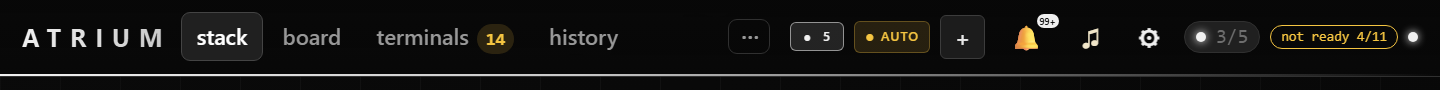
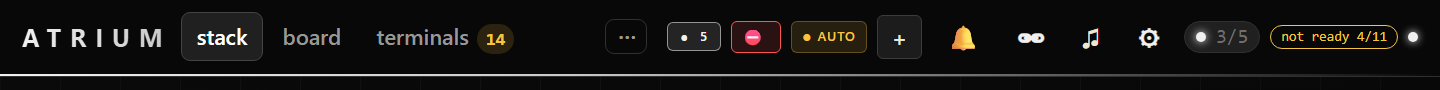
Ctrl+Alt+R on the board opens a paste-a-link box that starts the card on Enter

diff --git a/scripts/test-board-headless.js b/scripts/test-board-headless.js
@@ -19941,6 +19941,118 @@ async function prMoveSection(browser, base) {
   if (!bad) console.log("prMove ok");
 }
 
+// ── ctrl-alt-r: paste a link, start its card ──────────────────────
+// The box opens on the key with the clipboard's link in it. Enter runs the pull request chain to a launched card,
+// shift-enter stops at the filled launch dialog, a link nothing knows comes back to the box with the reason, and text
+// that is not a link is refused in the box. QPSHOT=/dir writes the pictures.
+async function quickPasteSection(browser, base) {
+  const ctx = await browser.newContext({ viewport: { width: 1280, height: 800 } });
+  const errors = [];
+  const json = (route, status, body) => route.fulfill({ status, contentType: "application/json", body: JSON.stringify(body) });
+  const row = { id: "pr_q", url: "https://github.com/openziti/zrok/pull/12", org: "openziti", repo: "zrok", number: 12, state: "queued" };
+  const st = { calls: [] };
+  await ctx.addInitScript(() => {
+    window.__clip = "";
+    Object.defineProperty(navigator, "clipboard", { configurable: true, value: {
+      readText: async () => window.__clip, read: async () => [], writeText: async () => {} } });
+  });
+  await ctx.route(/\/v1\/(recognise|prs|providers|launch)(\/|\?|$)/, async route => {
+    const req = route.request();
+    const p = new URL(req.url()).pathname, m = req.method();
+    if (m === "GET" && p === "/v1/prs") return json(route, 200, { prs: [], counts: {}, nav_count: 0 });
+    if (m === "GET" && p === "/v1/providers") return json(route, 200, { providers: [{ name: "gh", host: "github.com", worktrees: true }] });
+    st.calls.push(m + " " + p + " " + (req.postData() || ""));
+    if (p === "/v1/recognise") {
+      const url = JSON.parse(req.postData() || "{}").url || "";
+      if (!/github\.com/.test(url)) return json(route, 404, { error: "no recogniser matches " + url });
+      return json(route, 200, { recogniser: "github-pr", label: "github pull request", url, host: "github.com",
+        cwd: "/wt/zrok-12", title: "review zrok#12", prompt: "review the pull request", tags: ["pull-request"],
+        vars: { org: "openziti", repo: "zrok", num: "12", host: "github.com" } });
+    }
+    if (p === "/v1/providers/gh/pr-worktree") return json(route, 200, { path: "/wt/zrok-12", existed: false });
+    if (p === "/v1/prs") return json(route, 200, { pr: row, created: true });
+    if (p === "/v1/launch") return json(route, 200, { id: "t-q", supervised: false });
+    if (p === "/v1/prs/pr_q/walker") return json(route, 200, { pr: Object.assign({}, row, { walker_task: "t-q" }) });
+    return json(route, 404, { error: "no route" });
+  });
+  const shot = async (p, name) => { if (process.env.QPSHOT) await p.screenshot({ path: process.env.QPSHOT + "/" + name + ".png" }); };
+  const open = id => `document.getElementById("${id}").open`;
+  try {
+    const p = await ctx.newPage();
+    p.on("pageerror", e => errors.push(e.message));
+    await p.goto(base + "/", { waitUntil: "domcontentloaded" });
+    await p.waitForFunction(() => typeof openQuickPaste === "function" && typeof openLaunch === "function", null, { timeout: slow(15000) });
+    await p.waitForSelector("#stack-list .stackrow", { timeout: slow(15000) }).catch(() => {});
+
+    // the key opens the box with the clipboard's link, selected
+    await p.evaluate(() => { window.__clip = "https://github.com/openziti/zrok/pull/12"; });
+    await p.keyboard.press("Control+Alt+KeyR");
+    await p.waitForFunction(() => document.getElementById("quickpaste").open &&
+      document.getElementById("qp-url").value === "https://github.com/openziti/zrok/pull/12", null, { timeout: slow(5000) })
+      .catch(() => fail("quickPaste: ctrl-alt-r did not open the box with the clipboard's link"));
+    await shot(p, "box");
+    // the key again closes it
+    await p.keyboard.press("Control+Alt+KeyR");
+    if (await p.evaluate(open("quickpaste"))) fail("quickPaste: ctrl-alt-r did not close an open box");
+
+    // text that is not a link is refused in the box, and nothing is asked
+    await p.evaluate(() => { window.__clip = "just words"; });
+    await p.click("#quickpaste-open");
+    await p.waitForFunction(() => document.getElementById("quickpaste").open, null, { timeout: slow(5000) });
+    await p.waitForTimeout(100);
+    if (await p.inputValue("#qp-url") !== "") fail("quickPaste: text that is not a link was put in the box");
+    await p.fill("#qp-url", "not a link");
+    await p.press("#qp-url", "Enter");
+    if (!/not a link/.test(await p.textContent("#qp-note"))) fail("quickPaste: text that is not a link was not refused");
+    if (st.calls.length) fail("quickPaste: a refused box still called: " + st.calls.join(" | "));
+
+    // a link nothing knows comes back to the box with the reason
+    await p.fill("#qp-url", "https://nowhere.example/x");
+    await p.press("#qp-url", "Enter");
+    await p.waitForFunction(() => document.getElementById("quickpaste").open &&
+      /nothing here knows/.test(document.getElementById("qp-note").textContent), null, { timeout: slow(5000) })
+      .catch(() => fail("quickPaste: an unknown link did not come back to the box with the reason"));
+    if (await p.evaluate(open("launch"))) fail("quickPaste: an unknown link left the launch dialog open");
+    await shot(p, "unknown");
+
+    // shift-enter stops at the launch dialog, filled in, with nothing started
+    st.calls = [];
+    await p.fill("#qp-url", "https://github.com/openziti/zrok/pull/12");
+    await p.press("#qp-url", "Shift+Enter");
+    await p.waitForFunction(() => document.getElementById("launch").open &&
+      document.getElementById("l-prompt").value === "review the pull request", null, { timeout: slow(5000) })
+      .catch(() => fail("quickPaste: shift-enter did not leave the launch dialog filled in"));
+    await p.waitForTimeout(200);
+    if (st.calls.some(c => c.indexOf("/v1/launch") >= 0)) fail("quickPaste: shift-enter launched: " + st.calls.join(" | "));
+    if (await p.inputValue("#l-url") !== "https://github.com/openziti/zrok/pull/12") fail("quickPaste: shift-enter lost the link");
+    await shot(p, "edit-first");
+    // the key does not stack the box on an open dialog
+    await p.keyboard.press("Control+Alt+KeyR");
+    if (await p.evaluate(open("quickpaste"))) fail("quickPaste: the box opened over the launch dialog");
+    await p.evaluate(() => document.getElementById("launch").close());
+
+    // enter runs the pull request chain to a launched card
+    st.calls = [];
+    await p.evaluate(() => { window.__clip = "https://github.com/openziti/zrok/pull/12"; });
+    await p.keyboard.press("Control+Alt+KeyR");
+    await p.waitForFunction(() => document.getElementById("qp-url").value !== "", null, { timeout: slow(5000) });
+    await p.press("#qp-url", "Enter");
+    await p.waitForFunction(() => !document.getElementById("launch").open && !document.getElementById("quickpaste").open,
+      null, { timeout: slow(8000) }).catch(() => {});
+    await p.waitForTimeout(200);
+    const order = st.calls.map(c => c.split(" ")[1]);
+    const want = ["/v1/recognise", "/v1/providers/gh/pr-worktree", "/v1/prs", "/v1/launch", "/v1/prs/pr_q/walker"];
+    if (order.join() !== want.join()) fail("quickPaste: enter ran " + order.join() + ", wanted " + want.join());
+    const l = st.calls.find(c => c.indexOf("POST /v1/launch") === 0);
+    const launch = l ? JSON.parse(l.split(" ").slice(2).join(" ")) : {};
+    if (launch.cwd !== "/wt/zrok-12" || launch.prompt !== "review the pull request" ||
+        (launch.tags || []).join() !== "pull-request,pr,pr:openziti/zrok#12" ||
+        launch.source_url !== "https://github.com/openziti/zrok/pull/12") fail("quickPaste: the launch was " + JSON.stringify(launch));
+    if (errors.length) fail("quickPaste: page errors: " + errors.join(" | "));
+  } finally { await ctx.close(); }
+  if (!bad) console.log("quickPaste ok");
+}
+
 // The daemon answers /v1/prs with a plain-text 404 (nothing serves it yet): the tab stays hidden and nothing throws.
 async function pullsAbsentSection(browser, base) {
   const ctx = await browser.newContext({ viewport: { width: 1280, height: 800 } });
@@ -24627,7 +24739,7 @@ async function main() {
       termDebug: termDebugSection, termDebugPerCard: termDebugPerCardSection, termLag: termLagSection, termHiddenRedraw: termHiddenRedrawSection, termSortStarted: termSortStartedSection,
       noReadyChildren: noReadyChildrenSection, childUnderParent: childUnderParentSection, topNav: topNavSection,
       u002: u002Section, childFold: childFoldSection, liveHome: liveHomeSection,
-      pulls: pullsSection, prMove: prMoveSection, hubRepos: hubReposSection, hubReposShelf: hubReposShelfSection, hubReposLedger: hubReposLedgerSection, hubReposFeed: hubReposFeedSection, changeReq: changeReqSection, mChangeReq: mChangeReqSection, trayHead: trayHeadSection, pullsAbsent: pullsAbsentSection, oneTooltip: oneTooltipSection, burnChart: burnChartSection, burnReadout: burnReadoutSection, switchPrewarm: switchPrewarmSection, attachAtOnce: attachAtOnceSection, fileView: fileViewSection, keepAlive: keepAliveSection, switchBackCost: switchBackCostSection, keepMemory: keepMemorySection, pullsDrawer: pullsDrawerSection };
+      pulls: pullsSection, prMove: prMoveSection, quickPaste: quickPasteSection, hubRepos: hubReposSection, hubReposShelf: hubReposShelfSection, hubReposLedger: hubReposLedgerSection, hubReposFeed: hubReposFeedSection, changeReq: changeReqSection, mChangeReq: mChangeReqSection, trayHead: trayHeadSection, pullsAbsent: pullsAbsentSection, oneTooltip: oneTooltipSection, burnChart: burnChartSection, burnReadout: burnReadoutSection, switchPrewarm: switchPrewarmSection, attachAtOnce: attachAtOnceSection, fileView: fileViewSection, keepAlive: keepAliveSection, switchBackCost: switchBackCostSection, keepMemory: keepMemorySection, pullsDrawer: pullsDrawerSection };
     try {
       for (const n of process.env.HEADLESS_ONLY.split(",")) await only[n](browser, base);
     } catch (e) { fail("the headless run threw: " + (e && e.message ? e.message : e) + threwAt(e)); }
@@ -26757,6 +26869,7 @@ async function main() {
     await unit("keepAlive", () => keepAliveSection(browser, base));
     await unit("pullsDrawer", () => pullsDrawerSection(browser, base));
     await unit("prMove", () => prMoveSection(browser, base));
+    await unit("quickPaste", () => quickPasteSection(browser, base));
   } catch (e) {
     // a listing has no browser, so a bare section call throws here, and the guard below names it
     if (!LIST_MODE) fail("the headless run threw: " + (e && e.message ? e.message : e) + threwAt(e));

diff --git a/internal/api/web/js/quickpaste.js b/internal/api/web/js/quickpaste.js
@@ -1,0 +1,108 @@
+// ── paste a link: ctrl-alt-r ────────────────────────────────────────────────
+//
+// One key from anywhere on the board, a box with the link already in it, and
+// Enter starts the card. It is the same road a link pasted on the board takes:
+// the recogniser fills the launch dialog, and the dialog's own launch is what
+// starts the card, pull request chain and all (`launchNow` in js/fixtures.js).
+// Nothing here knows what a link is.
+//
+// ENTER STARTS AT ONCE, SHIFT-ENTER STOPS FOR EDITING. Enter is "review this",
+// which is what the key is for nine times in ten. Shift-Enter opens the launch
+// dialog filled in and leaves it there, for the prompt or the room somebody
+// wants to change first. A link that leaves something to fix (a hole in a
+// template, a fetch that failed, a room with no runner) stops at the dialog
+// either way, because starting a card that is already wrong is not quicker.
+//
+// The board's, not the machine's. It works while the page has focus, inside a
+// terminal too, and nowhere else.
+const QUICKPASTE_KEY = "ctrl+alt+KeyR";
+
+// Capture on `window`, and stopped there, for the switcher's reason: xterm
+// listens on its own textarea, so letting the keystroke through would open the
+// box and send a control character to the runner. Some layouts send ctrl+alt
+// for AltGr, and AltGr+r is a letter somebody meant to type, so that is left
+// alone, the same rule as ctrl-alt-n in js/terminal.js.
+addEventListener("keydown", e => {
+  if (swCapturing || comboOf(e) !== QUICKPASTE_KEY) return;
+  if (e.getModifierState && e.getModifierState("AltGraph")) return;
+  e.preventDefault();
+  e.stopPropagation();
+  const dlg = document.getElementById("quickpaste");
+  if (dlg && dlg.open) dlg.close();
+  else openQuickPaste();
+}, true);
+
+const QUICKPASTE_URL = /^https?:\/\/\S+$/;
+
+function quickPasteSay(text, warn) {
+  const note = document.getElementById("qp-note");
+  note.textContent = text;
+  note.classList.toggle("warn", !!warn);
+}
+
+// `url` and `say` reopen the box on a link nothing recognised, with the reason.
+async function openQuickPaste(url, say) {
+  const dlg = document.getElementById("quickpaste");
+  if (!dlg || dlg.open) return;
+  // Not stacked on another dialog. The launch dialog half filled, or a card
+  // being edited, is somebody in the middle of something.
+  if (document.querySelector("dialog[open]")) return;
+  const box = document.getElementById("qp-url");
+  box.value = url || "";
+  quickPasteSay(say || "a pull request, an issue or a support link. it is recognised the same as a paste on the board.",
+    !!say);
+  dlg.showModal();
+  box.focus();
+  if (url) return;
+  // THE CLIPBOARD, WHEN IT ANSWERS IN TIME. Raced against the same wait as a
+  // terminal paste, because an unanswered permission prompt never settles. A
+  // link goes in and is selected, so typing over it is one keystroke. Anything
+  // else is left out, and so is a box somebody already typed into.
+  let text = "";
+  try {
+    const read = navigator.clipboard && navigator.clipboard.readText ? navigator.clipboard.readText() : null;
+    if (read) text = await Promise.race([read, new Promise(r => setTimeout(() => r(""), pasteWaitMs))]);
+  } catch (e) {
+    text = "";
+  }
+  text = String(text || "").trim();
+  if (dlg.open && !box.value && QUICKPASTE_URL.test(text)) {
+    box.value = text;
+    box.select();
+  }
+}
+
+async function quickPasteGo(edit) {
+  const url = document.getElementById("qp-url").value.trim();
+  if (!QUICKPASTE_URL.test(url)) {
+    quickPasteSay("that is not a link. paste one that starts with http:// or https://.", true);
+    return;
+  }
+  document.getElementById("quickpaste").close();
+  await openLaunch(null, "", "", null, { url });
+  const launch = document.getElementById("launch");
+  // No runner enabled: openLaunch said so and went to the runners pane.
+  if (!launch.open) return;
+  const got = await recogniseLink();
+  if (got === "none") {
+    launch.close();
+    openQuickPaste(url, document.getElementById("l-link-note").textContent);
+    return;
+  }
+  if (edit || !got) return;
+  // A pull request's missing worktree is a problem the launch itself solves.
+  if ((got.problem || got.fetch_error) && !pastedPR()) return;
+  const go = document.getElementById("l-go");
+  if (go && go.disabled) return;
+  doLaunch();
+}
+
+(function () {
+  const box = document.getElementById("qp-url");
+  if (!box) return;
+  box.addEventListener("keydown", e => {
+    if (e.key !== "Enter") return;
+    e.preventDefault();
+    quickPasteGo(e.shiftKey);
+  });
+})();

diff --git a/internal/api/web/index.html b/internal/api/web/index.html
@@ -221,6 +221,8 @@
          The badge counts what has arrived since this was last opened. -->
     <button id="toastlog-open" class="icon" onclick="openToastLog()"
       aria-label="what the board has told you" data-tip="what the board has told you"><span class="glyph">&#128276;</span><span class="count"></span><span class="hmsg" hidden>&#9993;&#xFE0E;<span class="pb-n"></span></span></button>
+    <button id="quickpaste-open" class="icon" onclick="openQuickPaste()"
+      aria-label="paste a link and start a card for it (ctrl-alt-r)" data-tip="paste a link and start a card for it (ctrl-alt-r)">&#128279;&#xFE0E;</button>
     <button id="sound" class="icon" aria-label="sound on. click to mute" data-tip="sound on. click to mute">&#9835;</button>
     <button id="gear" class="icon" aria-label="sound settings" data-tip="sound settings">&#9881;</button>
     <!-- WHICH ROOM, and it is a selector as much as a counter.
@@ -1176,6 +1178,21 @@ Once a room has taken an item there is no withdrawing it from here. Stop it on t
   </div>
   <div class="dlg-body">
     <div id="toastlog-list" class="toastlog"></div>
+  </div>
+</dialog>
+
+<!-- Paste a link, start its card: ctrl-alt-r or the link button in the header. js/quickpaste.js. `type="search"`
+     for the switcher's reason below: a lone text field gets an autofill bubble. -->
+<dialog id="quickpaste">
+  <input type="search" id="qp-url" class="swq" spellcheck="false" autocomplete="off"
+    placeholder="paste a link: a pull request, an issue, a support thread">
+  <div id="qp-note" class="qpnote"></div>
+  <div class="swfoot">
+    <span><kbd>enter</kbd> start</span>
+    <span><kbd>shift</kbd><kbd>enter</kbd> edit first</span>
+    <span><kbd>esc</kbd> close</span>
+    <span class="grow"></span>
+    <span>ctrl-alt-r</span>
   </div>
 </dialog>
 
@@ -3700,6 +3717,7 @@ Once a room has taken an item there is no withdrawing it from here. Stop it on t
 <script src="/js/tooltips.js"></script>
 <script src="/js/solo.js"></script>
 <script src="/js/switcher.js"></script>
+<script src="/js/quickpaste.js"></script>
 <script src="/js/hubrestart.js"></script>
 <script src="/js/deployready.js"></script>
 <script src="/js/topnav.js"></script>

diff --git a/internal/api/web/css/notify.css b/internal/api/web/css/notify.css
@@ -270,6 +270,26 @@
     padding: 0 5px; color: var(--body); font-family: inherit;
   }
   #switcher .empty { padding: 18px 12px; text-align: center; }
+  /* Paste a link (js/quickpaste.js): the switcher's field and footer, with a line for what the box will do or why
+     it did not. */
+  #quickpaste { width: min(560px, 92vw); padding: 0; border-radius: 12px; }
+  #quickpaste .swq {
+    width: 100%; box-sizing: border-box; font-size: var(--fs-lg);
+    padding: 12px 14px; background: var(--bg-2); color: var(--head);
+    border: 0; border-bottom: 1px solid var(--stroke-dim); border-radius: 0;
+    outline: none;
+  }
+  #quickpaste .qpnote { padding: 10px 14px; color: var(--dim); font-size: var(--fs-sm); }
+  #quickpaste .qpnote.warn { color: var(--warn); }
+  #quickpaste .swfoot {
+    display: flex; gap: 10px; align-items: center; flex-wrap: wrap;
+    padding: 8px 12px; border-top: 1px solid var(--stroke-dim);
+    color: var(--dimmest); font-size: var(--fs-xs);
+  }
+  #quickpaste .swfoot kbd {
+    background: var(--chip); border: 1px solid var(--stroke-dim); border-radius: 4px;
+    padding: 0 5px; color: var(--body); font-family: inherit;
+  }
   /* One terminal in its own window: the same page with everything that is not the terminal hidden.
 
      Hidden rather than removed, so every code path keeps working. The session list, the card dialog and the

diff --git a/changelog/ui/2026-10-07-u-review-pr-hotkey.md b/changelog/ui/2026-10-07-u-review-pr-hotkey.md
@@ -1,0 +1,5 @@
+Ctrl+Alt+R anywhere on the board, a terminal included, opens a box to paste a link into, with the clipboard's link
+already in it. The header's link button opens the same box. Enter recognises the link and starts its card at once, the
+same road a paste on the board takes, so a GitHub pull request gets its worktree, its review and its walker card.
+Shift+Enter stops at the launch dialog filled in, for editing first. A link nothing recognises comes back to the box
+with the reason. AltGr is left alone.
